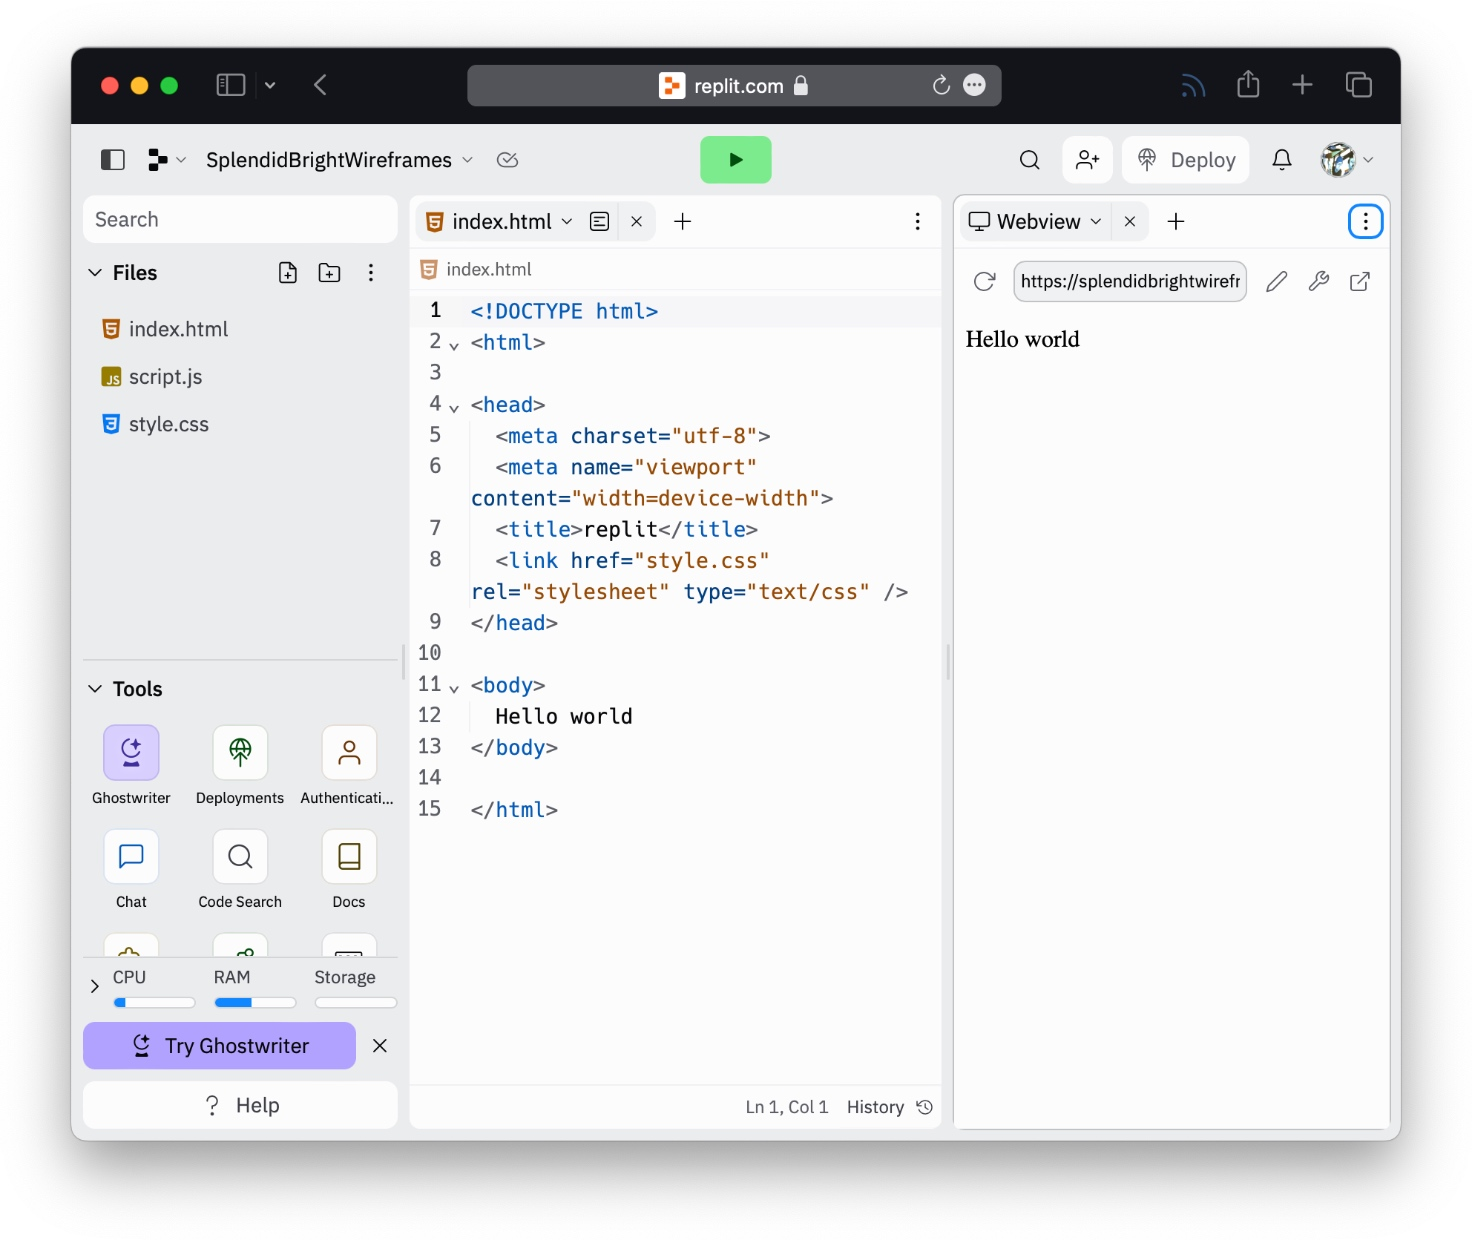
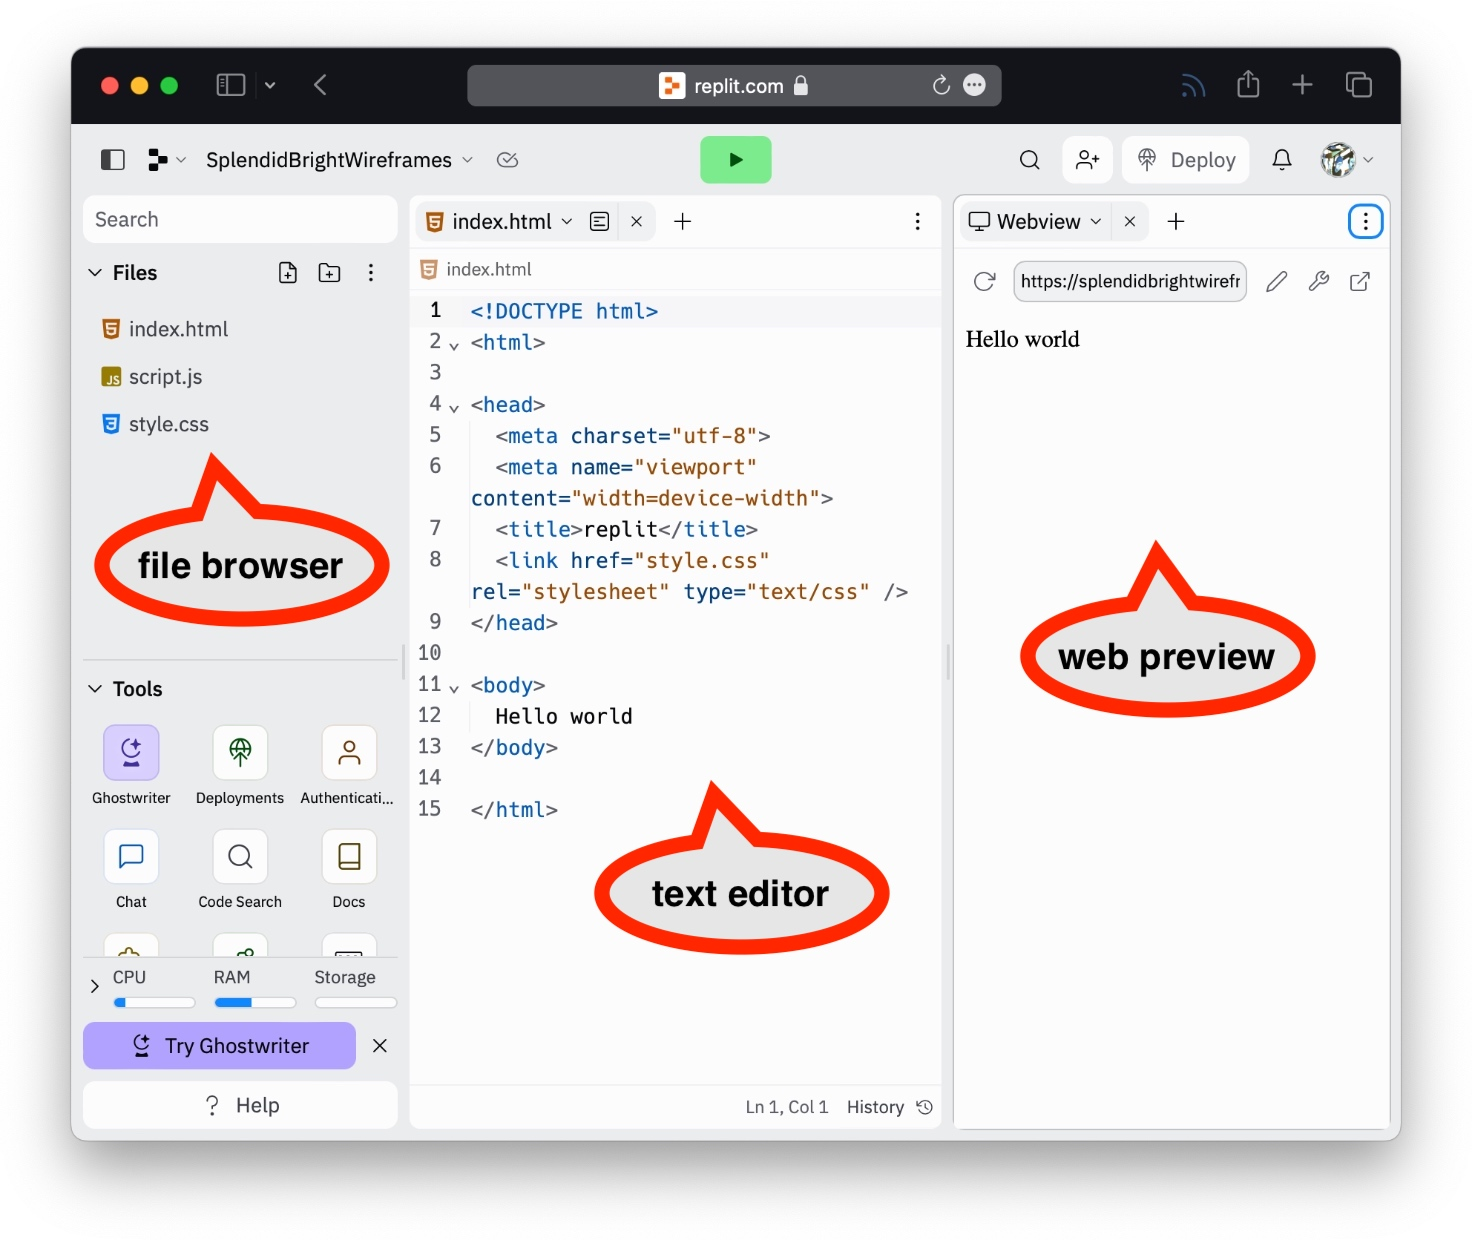
asdf

Changed region(s): [[0.0625, 0.3677, 0.2812, 0.521], [0.4062, 0.6129, 0.625, 0.7968], [0.6875, 0.429, 0.9062, 0.5823]]

diff --git a/docs/general/using-replit.md b/docs/general/using-replit.md
@@ -4,22 +4,12 @@ title: Using Replit
 parent: General
 nav_order: 3
 ---
-# DRAFT
 # Using Replit
-[Replit](https://replit.com) is the code editor that we will be using this semester for all coding exercises and assignments. It is a browser-based IDE (Integrated Development Environment), which means that all HTML/CSS/JS editing, debugging, and previewing will be done within your web browser. You will be sent an invite link to create your Replit account during the first day of class. All of the content below assumes that you are logged in to Replit using your class account.
+[Replit](https://replit.com) is the code editor that we will be using this semester for all coding exercises and assignments. It is a browser-based IDE (Integrated Development Environment), which means that all HTML/CSS/JS editing, debugging, and previewing will be done within your web browser. You will be sent an invite link to create your Replit account during the first day of class. All of the instructions below assume that you are logged in to Replit using your class account.
 <div style="display: flex; justify-content: center;"> 
   <figure style="width: 100%;">
 	<img src="images/replit-home.jpg" style="width: 100%;">
 	<figcaption style="font-style: italic; text-align: center;">Replit home page (when logged in)</figcaption>
-  </figure>
-</div>
-
-## The Replit Editor
-[Introduction to the Workspace](https://docs.replit.com/programming-ide/introduction-to-the-workspace)
-<div style="display: flex; justify-content: center;"> 
-  <figure style="width: 100%;">
-	<img src="images/replit-editor.jpg" style="width: 100%;">
-	<figcaption style="font-style: italic; text-align: center;">Replit editor (typical layout)</figcaption>
   </figure>
 </div>
 ## Creating a New Repl
@@ -28,18 +18,37 @@ Each individual project in Replit is called a "Repl".  To create a new Repl for 
 If for some reason you want to make a fresh Repl without any of the customizations in the IMS322 template, click the "Create Repl" button in the upper-left corner of the Replit home page. When prompted, choose the "HTML, CSS, JS" template and enter a title.
 
 You can find all personal Repls in the "My Repls" category in the lefthand sidebar on your Replit home page.
+## The Replit Workspace
+A typical Replit workspace setup consists of 3 main parts:
+- The file browser, where HTML, CSS, JavaScript, and any other files in your Repl (e.g. images) are found. Creating new files and folders and uploading files to Replit from your computer also happens here.
+- The text editor section, where you can see and edit the code in your HTML, CSS, and JavaScript files. It is possible to have multiple files open in different tabs within the editor pane.
+- The web preview section (aka "Webview"), where you can see a small rendered preview of your project. Clicking the big green "Run" button will refresh this preview to include your latest edits.
+By default, these sections will load in the orientation seen in the screenshot below. However, it is possible to rearrange or close some sections. For example, notice that the Webview tab has an X - clicking this will close that pane, leaving only the file browser and text editor. If this happens, you can always add the pane back by clicking on the 3-dot menu button in the upper-right corner.
+
+Two other important features of the workspace to note at this time:
+- The console, which can be opened by clicking the wrench icon near the top of the Webview pane.
+- "Open in a new tab" feature, which is the button to the right of the wrench. This opens the web preview in a full-sized window.
+We will discuss the use of these features during the first few weeks of class. In the meantime, if you would like more information or review of the Replit workspace, visit the [Introduction to the Workspace](https://docs.replit.com/programming-ide/introduction-to-the-workspace) page.
+<div style="display: flex; justify-content: center;"> 
+  <figure style="width: 100%;">
+	<img src="images/replit-editor.jpg" style="width: 100%;">
+	<figcaption style="font-style: italic; text-align: center;">Replit editor (typical layout)</figcaption>
+  </figure>
+</div>
 ## Accepting and Submitting Assignments
 When your Replit account is created, you will be added to the class "Team". You can see the projects assigned to your team by clicking on "Teams" in the lefthand sidebar on your Replit home page.
 
-To accept an assignment, 
+In Team view, you will see a list of all assignments and their due dates. To accept an assignment, click on "Start project" to the right of the assignment's name. *It's important to note that these Repls belong to your Team and are only visible here, while any personal Repls that you make with the Fork or Create Repl buttons will be in the My Repls section.*
 
-Each assignment will be built from the IMS 322 Repl template and include instructions and possibly some additional comments or example code in the HTML, CSS, and/or JavaScript files. *Make sure that you carefully read these.*
+Each assignment will be built from the IMS 322 Repl template and include instructions and possibly some additional comments or example code in the HTML, CSS, and/or JavaScript files. *Make sure that you carefully read all of these.*
+
+When you finish working on an assignment, click the "Submit" button in the project workspace. This will timestamp your submission. You are welcome to go back and make changes after your initial submission, but keep in mind that resubmitting will change the timestamp, which may make the difference between submitting an assignment on time or late.
 <div style="display: flex; justify-content: center;"> 
   <figure style="width: 100%;">
 	<img src="images/replit-team.jpg" style="width: 100%;">
 	<figcaption style="font-style: italic; text-align: center;">Replit Team page</figcaption>
   </figure>
 </div>
-
 ## Embedded Examples
-
+In many pages on this site, you will see some embedded examples from Replit. These are sort of like miniature "read-only" versions of the workspace where you can see the files, code, and preview, but not make any changes. If you would like to try changing some of the code in these examples or make a copy for yourself, just click the "Open on Replit" button. Try it out below! *Click the big play button if the preview is not visible.*
+<iframe src="https://replit.com/@sheffie/IMS322-Embed-Example?embed=true" width="100%" height="480" style="border: none; border-radius: 8px; box-shadow: 0 1px 3px rgba(0,0,0,0.12), 0 1px 2px rgba(0,0,0,0.24);"></iframe>
